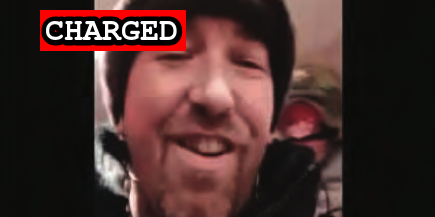
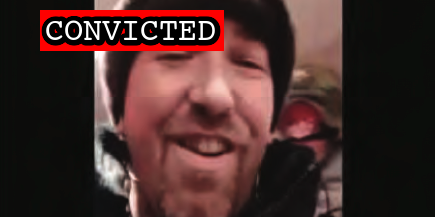
Latest import

Changed region(s): [[0.0897, 0.0276, 0.5379, 0.2488]]

diff --git a/commands/suspect-import.ts b/commands/suspect-import.ts
@@ -315,6 +315,7 @@ const falsePositives = (site: string) => {
       set.add("Ehrke");
       set.add("Moors");
       set.add("Morgan-Lloyd");
+      set.add("Yazdani");
       break;
   }
 
@@ -651,8 +652,7 @@ const addData = (suspectData) => {
   for (const [type, url] of Object.entries(links)) {
     if (suspect.links[type]) {
       // link already exists but there may be a "better" one from DOJ
-      if (/^https:\/\/www.justice.gov/.test(<string>url) && suspect.links[type] != url) {
-        console.log(`${suspect.name}: ${type} (Updated Link)`);
+      if (/^https:\/\/www.justice.gov/.test(<string>url) && suspect.links[type] !== url) {
         suspect.links[type] = <string>url;
       } else {
         continue;

diff --git a/commands/common/file.ts b/commands/common/file.ts
@@ -18,13 +18,12 @@ export const writeLines = (filename: string, lines: string[]) => {
   const cleanLines = lines.map((line) => {
     return line.replace(": undefined", ":");
   });
-
   writeFile(filename, cleanLines.join("\n") + "\n");
 };
 
 export const splitCSV = (line: string) => {
-  var matches = line.match(/(\s*"[^"]+"\s*|\s*[^,]+|,)(?=,|$)/g);
-  for (var n = 0; n < matches.length; ++n) {
+  const matches = line.match(/(\s*"[^"]+"\s*|\s*[^,]+|,)(?=,|$)/g);
+  for (let n = 0; n < matches.length; ++n) {
     matches[n] = matches[n].trim();
     if (matches[n] == ",") matches[n] = "";
   }

diff --git a/docs/_suspects/adam-honeycutt.md b/docs/_suspects/adam-honeycutt.md
@@ -4,15 +4,15 @@ lastName: Honeycutt
 hashtag: AdamHoneycutt
 aka: Bundy
 residence: Florida
-status: Charged
+status: Convicted
 date: 2021-02-11
 charged: 2021-02-11
 indicted:
-convicted: 
+convicted: 2022-03-01
 sentenced: 
 dismissed: 
 deceased:
-plea_hearing:
+plea_hearing: 2022-03-01
 sentencing:
 age: 39
 occupation: Bail Bondsman
@@ -34,8 +34,13 @@ published: true
 caseNumber: 1:21-mj-216
 videos:
 charges:
+- code: 18 USC § 5104(e)(2)(G)
+  title: Parading, demonstrating or picketing in a Capitol building
+  url: https://www.law.cornell.edu/uscode/text/40/5104
+  felony: false
 sentence:
 ---
 - [News Report](https://www.news4jax.com/news/local/2021/02/11/jacksonville-fbi-agents-arrest-man-on-charges-connected-to-capitol-riot/)
-- [Statement of Facts](https://www.justice.gov/usao-dc/case-multi-defendant/file/1366581/download)
+- [Statement of Facts](https://www.justice.gov/usao-dc/case-multi-defendant/file/1479321/download)
 - [FBI Statement (Twitter)](https://twitter.com/FBIJacksonville/status/1359935620123136000)
+- [Plea Agreement](https://www.justice.gov/usao-dc/case-multi-defendant/file/1479316/download)

diff --git a/docs/_suspects/matthew-beddingfield.md b/docs/_suspects/matthew-beddingfield.md
@@ -39,3 +39,4 @@ sentence:
 - [News Report](https://www.nbcnews.com/politics/justice-department/fbi-arrests-trump-fan-stormed-capitol-bail-attempted-murder-rcna15169)
 - [Complaint](https://www.justice.gov/usao-dc/case-multi-defendant/file/1470311/download)
 - [Statement of Facts](https://www.justice.gov/usao-dc/case-multi-defendant/file/1470316/download)
+- [Detention Order](https://extremism.gwu.edu/sites/g/files/zaxdzs2191/f/Matthew%20Jason%20Beddingfield%20Government%20Motion%20Requesting%20Pretrial%20Detention%20Order.pdf)

diff --git a/docs/_suspects/kevin-strong.md b/docs/_suspects/kevin-strong.md
@@ -45,3 +45,4 @@ sentence:
 - [Statement of Facts](https://www.justice.gov/usao-dc/case-multi-defendant/file/1468916/download)
 - [Information](https://www.justice.gov/usao-dc/case-multi-defendant/file/1371671/download)
 - [Plea Agreement](https://www.justice.gov/usao-dc/case-multi-defendant/file/1468911/download)
+- [Sentencing Memo](https://extremism.gwu.edu/sites/g/files/zaxdzs2191/f/Kevin%20Strong%20Defense%20Sentencing%20Memorandum.pdf)

diff --git a/docs/_suspects/geoffrey-shough.md b/docs/_suspects/geoffrey-shough.md
@@ -3,7 +3,7 @@ name: Geoffrey Shough
 lastName: Shough
 hashtag: TexasPleather
 aka:
-residence:
+residence: Texas
 status: Charged
 date: 2022-02-17
 charged: 2022-02-17
@@ -36,6 +36,5 @@ videos:
 charges:
 sentence:
 ---
-
 - [Complaint](https://www.justice.gov/usao-dc/case-multi-defendant/file/1479011/download)
 - [Statement of Facts](https://www.justice.gov/usao-dc/case-multi-defendant/file/1479016/download)
